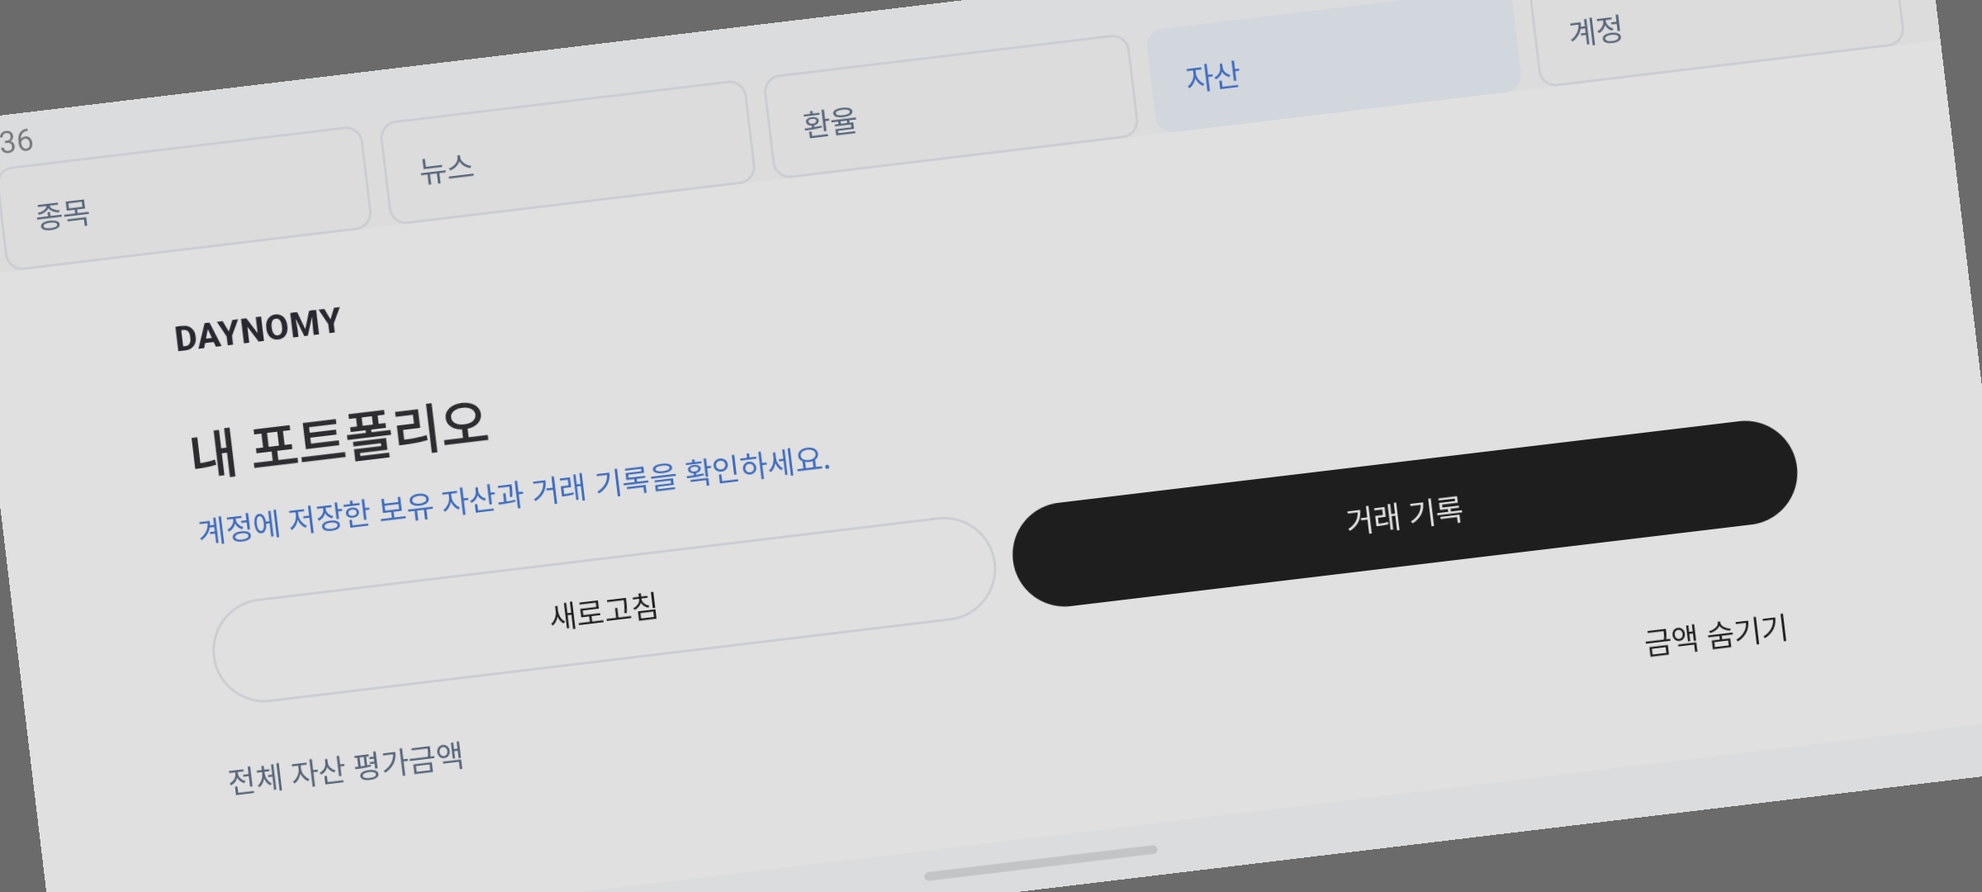
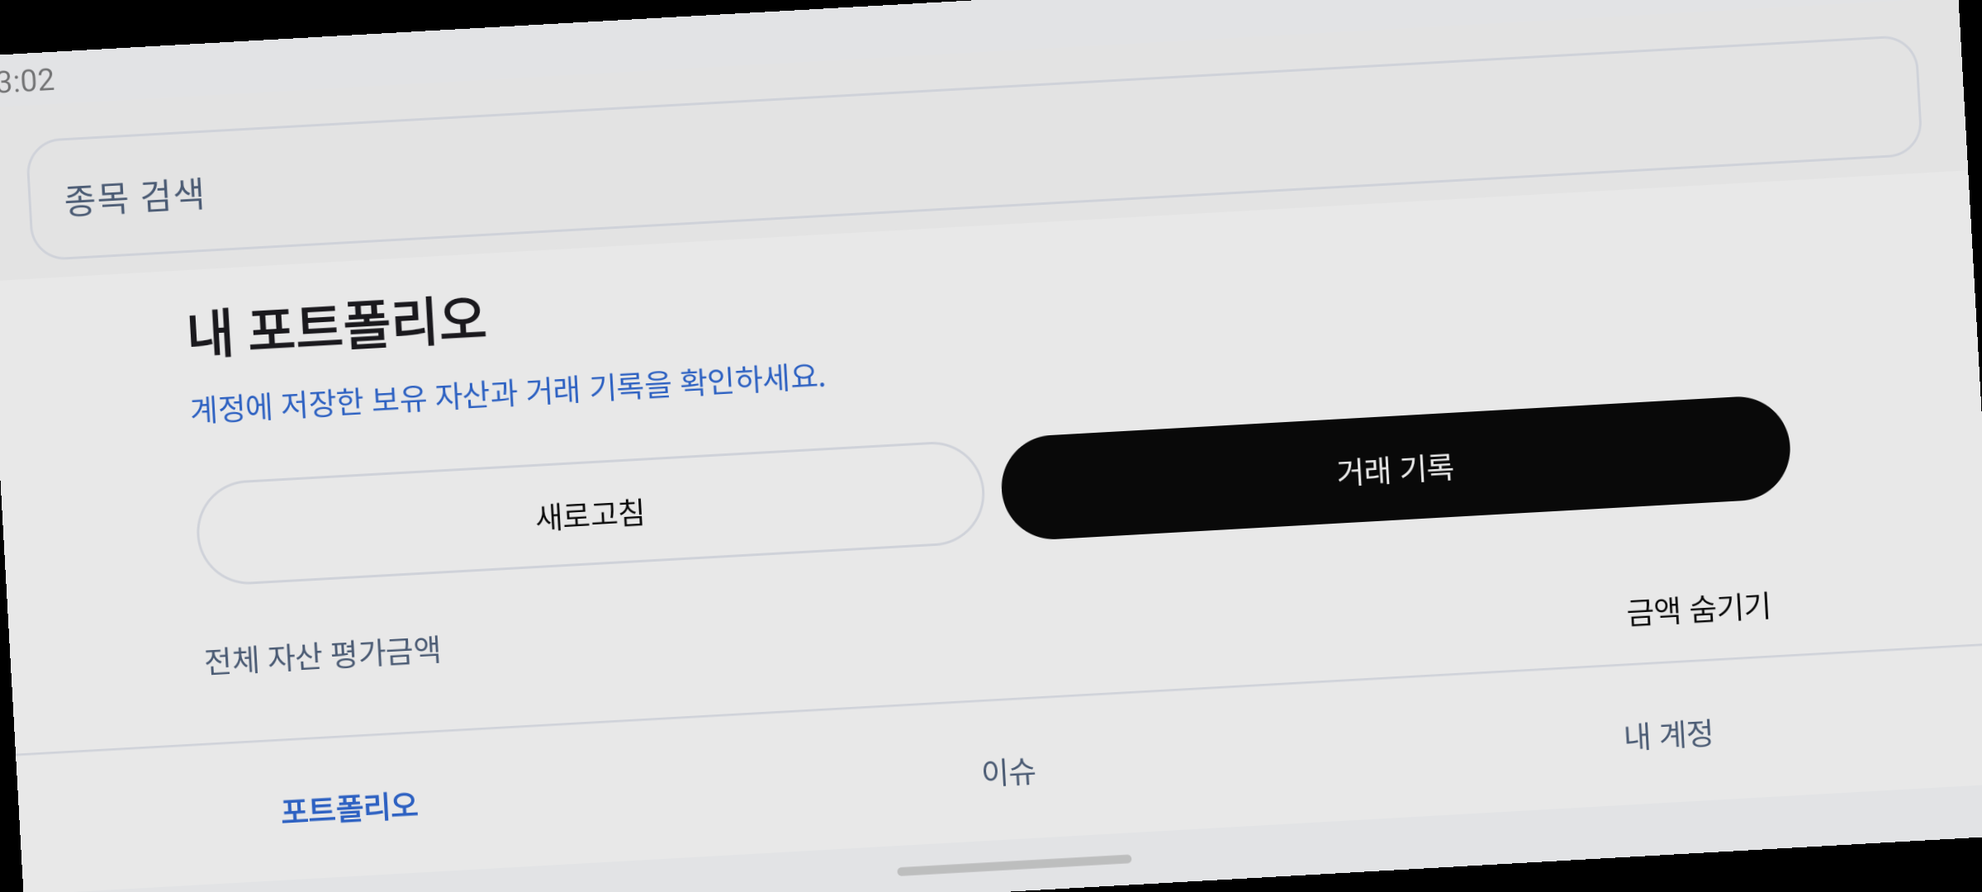
feat: 상단 검색과 하단 포트폴리오·이슈·내 계정 탐색 적용

diff --git a/clients/android/app/src/main/kotlin/org/daynomy/android/MainActivity.kt b/clients/android/app/src/main/kotlin/org/daynomy/android/MainActivity.kt
@@ -16,6 +16,11 @@ import androidx.compose.material3.*
 import androidx.compose.runtime.*
 import androidx.compose.runtime.saveable.rememberSaveable
 import androidx.compose.ui.Modifier
+import androidx.compose.ui.focus.onFocusChanged
+import androidx.compose.ui.platform.LocalFocusManager
+import androidx.compose.ui.semantics.Role
+import androidx.compose.ui.semantics.role
+import androidx.compose.ui.semantics.selected
 import androidx.compose.ui.graphics.Color
 import androidx.compose.ui.platform.LocalSoftwareKeyboardController
 import androidx.compose.ui.platform.testTag
@@ -63,7 +68,10 @@ class MainActivity : ComponentActivity() {
                 val core: CoreViewModel = viewModel(factory = viewModelFactory { initializer { CoreViewModel(baseUrl) } })
                 val feedback: FeedbackViewModel = viewModel(factory = viewModelFactory { initializer { FeedbackViewModel(baseUrl) } })
                 var feedbackOpen by rememberSaveable { mutableStateOf(false) }
-                var tab by rememberSaveable { mutableStateOf("market") }
+                var tab by rememberSaveable { mutableStateOf("portfolio") }
+                var returnTab by rememberSaveable { mutableStateOf("portfolio") }
+                val focus = LocalFocusManager.current
+                val keyboard = LocalSoftwareKeyboardController.current
                 LaunchedEffect(authCallback) {
                     authCallback?.let { callback -> authCallback = null; tab = "account"; core.completeLogin(callback) }
                 }
@@ -87,25 +95,61 @@ class MainActivity : ComponentActivity() {
                 val news by discovery.news.state.collectAsStateWithLifecycle()
                 val exchange by discovery.exchange.state.collectAsStateWithLifecycle()
                 BackHandler(tab == "news" && news.selectedId != null) { discovery.news.closeDetail() }
-                Column(Modifier.fillMaxSize().safeDrawingPadding()) {
-                    MaterialTheme(colorScheme = if (tab == "portfolio") PortfolioStyle.colors else MaterialTheme.colorScheme) {
-                    Row(Modifier.fillMaxWidth().padding(horizontal = 16.dp), horizontalArrangement = Arrangement.spacedBy(8.dp)) {
-                        listOf("market" to "종목", "news" to "뉴스", "exchange" to "환율", "portfolio" to "자산", "account" to "계정").forEach { (key, title) ->
-                            FilterChip(tab == key, { tab = key }, label = { Text(title) },
-                                modifier = Modifier.weight(1f).heightIn(min = 48.dp).testTag("tab-$key"))
-                        }
-                    }
-                    }
-                    Box(Modifier.weight(1f)) {
-                        when (tab) {
-                            "news" -> NewsScreen(news, discovery.news)
-                            "exchange" -> ExchangeScreen(exchange, discovery.exchange)
-                            "account" -> AccountScreen(core, onFeedback = { feedbackOpen = true }) {
-                                try { startActivity(Intent(Intent.ACTION_VIEW, Uri.parse(core.loginUrl()))) }
-                                catch (_: Exception) { core.showMessage("로그인 브라우저를 열지 못했습니다. 다시 시도해 주세요.") }
+                BackHandler(tab == "market" || tab == "exchange") {
+                    if (tab == "market" && state.selected != null) model.controller.clearSelection()
+                    else { focus.clearFocus(); keyboard?.hide(); tab = returnTab }
+                }
+                MaterialTheme(colorScheme = PortfolioStyle.colors) {
+                    Column(Modifier.fillMaxSize().safeDrawingPadding().imePadding()) {
+                        OutlinedTextField(
+                            value = state.query,
+                            onValueChange = {
+                                if (tab != "market") { returnTab = tab; tab = "market" }
+                                if (state.selected != null) model.controller.clearSelection()
+                                model.controller.updateQuery(it)
+                            },
+                            label = { Text("종목 검색") },
+                            placeholder = { Text("종목명 또는 종목코드") },
+                            singleLine = true,
+                            shape = androidx.compose.foundation.shape.RoundedCornerShape(16.dp),
+                            keyboardOptions = KeyboardOptions(imeAction = ImeAction.Search),
+                            keyboardActions = KeyboardActions(onSearch = { keyboard?.hide(); focus.clearFocus() }),
+                            modifier = Modifier.fillMaxWidth().padding(horizontal = 20.dp, vertical = 8.dp)
+                                .testTag("query").onFocusChanged {
+                                    if (it.isFocused && tab != "market") { returnTab = tab; tab = "market" }
+                                },
+                        )
+                        Box(Modifier.weight(1f)) {
+                            when (tab) {
+                                "news" -> NewsScreen(news, discovery.news)
+                                "exchange" -> Column {
+                                    TextButton({ tab = "account" }, Modifier.heightIn(min = 48.dp)) { Text("내 계정으로") }
+                                    ExchangeScreen(exchange, discovery.exchange)
+                                }
+                                "account" -> AccountScreen(core, onFeedback = { feedbackOpen = true },
+                                    onExchange = { returnTab = "account"; tab = "exchange" }) {
+                                    try { startActivity(Intent(Intent.ACTION_VIEW, Uri.parse(core.loginUrl()))) }
+                                    catch (_: Exception) { core.showMessage("로그인 브라우저를 열지 못했습니다. 다시 시도해 주세요.") }
+                                }
+                                "portfolio" -> PortfolioScreen(core) { tab = "account" }
+                                else -> MarketScreen(state, model.controller)
                             }
-                            "portfolio" -> PortfolioScreen(core) { tab = "account" }
-                            else -> MarketScreen(state, model.controller)
+                        }
+                        Surface(color = Color.White) {
+                            Column(Modifier.testTag("bottom-navigation")) {
+                                HorizontalDivider(color = PortfolioStyle.line)
+                                Row(Modifier.fillMaxWidth()) {
+                                    listOf("portfolio" to "포트폴리오", "news" to "이슈", "account" to "내 계정").forEach { (key, title) ->
+                                        val active = tab == key || (tab == "market" && returnTab == key) || (tab == "exchange" && key == "account")
+                                        TextButton({ focus.clearFocus(); keyboard?.hide(); returnTab = key; tab = key },
+                                            modifier = Modifier.weight(1f).heightIn(min = 64.dp).testTag("tab-$key")
+                                                .semantics { role = Role.Tab; selected = active }) {
+                                            Text(title, color = if (active) PortfolioStyle.blue else PortfolioStyle.muted,
+                                                fontWeight = if (active) FontWeight.Bold else FontWeight.Medium)
+                                        }
+                                    }
+                                }
+                            }
                         }
                     }
                 }
@@ -124,11 +168,6 @@ private fun MarketScreen(state: MarketUiState, controller: MarketController) {
             Text("종목과 가격", style = MaterialTheme.typography.headlineLarge, fontWeight = FontWeight.Bold,
                 modifier = Modifier.semantics { heading() })
             if (selected == null) {
-                OutlinedTextField(state.query, controller::updateQuery, label = { Text("종목 검색") },
-                    placeholder = { Text("종목명 또는 종목코드") }, singleLine = true,
-                    keyboardOptions = KeyboardOptions(imeAction = ImeAction.Search),
-                    keyboardActions = KeyboardActions(onSearch = { keyboard?.hide() }),
-                    modifier = Modifier.fillMaxWidth().testTag("query"))
                 Row(horizontalArrangement = Arrangement.spacedBy(8.dp)) {
                     Country.entries.forEach { country ->
                         FilterChip(state.country == country, { controller.updateCountry(country) },

diff --git a/clients/android/app/src/main/kotlin/org/daynomy/android/PortfolioScreen.kt b/clients/android/app/src/main/kotlin/org/daynomy/android/PortfolioScreen.kt
@@ -63,8 +63,6 @@ fun PortfolioScreen(model: CoreViewModel, onAccount: () -> Unit = {}) {
                 val gutter = if (maxWidth <= 600.dp) 36.dp else (16 + (maxWidth.value * .08f).coerceIn(32f, 128f)).dp
                 Column(Modifier.fillMaxSize().imePadding().verticalScroll(if (editorOpen) editorScroll else dashboardScroll)
                     .padding(horizontal = gutter, vertical = 28.dp), verticalArrangement = Arrangement.spacedBy(24.dp)) {
-                    Text("DAYNOMY", style = MaterialTheme.typography.titleMedium, fontWeight = FontWeight.ExtraBold,
-                        color = PortfolioStyle.ink)
                     if (editorOpen) {
                         Row(Modifier.fillMaxWidth(), horizontalArrangement = Arrangement.SpaceBetween) {
                             SectionTitle(if (model.editId == null) "거래 기록" else "거래 수정")
@@ -175,7 +173,7 @@ fun PortfolioScreen(model: CoreViewModel, onAccount: () -> Unit = {}) {
                         HorizontalDivider(color = PortfolioStyle.line)
                         SectionTitle("보유 자산 소식")
                         Text("관련 소식 연결은 준비 중입니다.", color = PortfolioStyle.muted)
-                        Text("발행된 뉴스는 상단 뉴스 메뉴에서 볼 수 있어요.", style = MaterialTheme.typography.bodyMedium, color = PortfolioStyle.muted)
+                        Text("발행된 뉴스는 하단 이슈 메뉴에서 볼 수 있어요.", style = MaterialTheme.typography.bodyMedium, color = PortfolioStyle.muted)
                     }
                 }
             }

diff --git a/clients/android/app/src/androidTest/kotlin/org/daynomy/android/PortfolioWebDesignScreenTest.kt b/clients/android/app/src/androidTest/kotlin/org/daynomy/android/PortfolioWebDesignScreenTest.kt
@@ -157,4 +157,26 @@ class PortfolioWebDesignScreenTest {
             scenario.onActivity { it.requestedOrientation=android.content.pm.ActivityInfo.SCREEN_ORIENTATION_PORTRAIT }
         }
     }
+    @Test fun threeBottomTabsAndPersistentTopSearchUseRealScreens() {
+        launch().use {
+            awaitTag("bottom-navigation")
+            compose.onNodeWithTag("tab-portfolio").assertTextContains("포트폴리오",substring=true)
+            compose.onNodeWithTag("tab-news").assertTextContains("이슈",substring=true)
+            compose.onNodeWithTag("tab-account").assertTextContains("내 계정",substring=true)
+            compose.onNodeWithTag("tab-market").assertDoesNotExist()
+            val bottom=compose.onNodeWithTag("bottom-navigation").fetchSemanticsNode().boundsInRoot
+            val search=compose.onNodeWithTag("query").fetchSemanticsNode().boundsInRoot
+            assertTrue(bottom.top>search.bottom)
+            compose.onNodeWithTag("query").performTextReplacement("삼성전자")
+            awaitTag("stock-1")
+            compose.onNodeWithTag("stock-1").performScrollTo().performClick()
+            compose.onNodeWithTag("clear-selection").assertExists()
+            compose.onNodeWithTag("query").performTextReplacement("삼성")
+            awaitTag("stock-1")
+            compose.onNodeWithTag("tab-news").performClick()
+            compose.onNodeWithTag("query").assertIsDisplayed()
+            compose.onNodeWithTag("tab-account").performClick(); awaitTag("account-profile")
+            capture("portfolio-bottom-navigation")
+        }
+    }
 }

diff --git a/clients/android/app/src/androidTest/kotlin/org/daynomy/android/DiscoveryScreenAcceptanceTest.kt b/clients/android/app/src/androidTest/kotlin/org/daynomy/android/DiscoveryScreenAcceptanceTest.kt
@@ -83,7 +83,7 @@ class DiscoveryScreenAcceptanceTest {
 
     @Test fun exchangeShowsActualFallbackDateAndExactRateAndSurvivesRecreation() {
         launch().use { scenario ->
-            awaitTag("tab-exchange"); compose.onNodeWithTag("tab-exchange").performClick()
+            awaitTag("tab-account"); compose.onNodeWithTag("tab-account").performClick(); awaitTag("tab-exchange"); compose.onNodeWithTag("tab-exchange").performClick()
             awaitTag("exchange-date"); compose.onNodeWithTag("exchange-date").performTextReplacement("2026-10-25")
             assertFalse(requests.any { it.requestUrl?.encodedPath == "/api/exchange-rates/usd-krw" })
             compose.onNodeWithTag("exchange-load").performClick()
@@ -99,7 +99,7 @@ class DiscoveryScreenAcceptanceTest {
     @Test fun exchangeErrorDoesNotBecomeAQuoteAndExplicitRetryRecovers() {
         exchangeFails = true
         launch().use {
-            awaitTag("tab-exchange"); compose.onNodeWithTag("tab-exchange").performClick()
+            awaitTag("tab-account"); compose.onNodeWithTag("tab-account").performClick(); awaitTag("tab-exchange"); compose.onNodeWithTag("tab-exchange").performClick()
             awaitTag("exchange-date"); compose.onNodeWithTag("exchange-date").performTextReplacement("2026-10-25")
             compose.onNodeWithTag("exchange-load").performClick(); awaitTag("exchange-error")
             compose.onNodeWithTag("exchange-error").assertIsDisplayed()

diff --git a/clients/android/app/src/main/kotlin/org/daynomy/android/CoreScreens.kt b/clients/android/app/src/main/kotlin/org/daynomy/android/CoreScreens.kt
@@ -18,7 +18,7 @@ import kotlinx.serialization.json.*
 import org.daynomy.market.Country
 
 @Composable
-fun AccountScreen(model: CoreViewModel, onFeedback: () -> Unit = {}, onLogin: () -> Unit) {
+fun AccountScreen(model: CoreViewModel, onFeedback: () -> Unit = {}, onExchange: () -> Unit = {}, onLogin: () -> Unit) {
     val focus = LocalFocusManager.current
     val profile = model.profile
     var nickname by remember(profile?.id, profile?.nickname) { mutableStateOf(profile?.nickname.orEmpty()) }
@@ -27,6 +27,7 @@ fun AccountScreen(model: CoreViewModel, onFeedback: () -> Unit = {}, onLogin: ()
     Column(Modifier.fillMaxSize().imePadding().verticalScroll(rememberScrollState()).padding(16.dp),
         verticalArrangement = Arrangement.spacedBy(12.dp)) {
         CoreHeading("내 계정")
+        TextButton(onExchange, Modifier.heightIn(min = 48.dp).testTag("tab-exchange")) { Text("환율 조회") }
         OutlinedButton(onFeedback, Modifier.fillMaxWidth().heightIn(min = 48.dp).testTag("account-feedback")) { Text("의견 보내기") }
         CoreMessage(model.message)
         if (model.busy) LinearProgressIndicator(Modifier.fillMaxWidth())

diff --git a/clients/android/app/src/androidTest/kotlin/org/daynomy/android/MarketScreenAcceptanceTest.kt b/clients/android/app/src/androidTest/kotlin/org/daynomy/android/MarketScreenAcceptanceTest.kt
@@ -126,6 +126,8 @@ class MarketScreenAcceptanceTest {
     @Test fun usSearchSendsCountryAndLocalCategoryFilterDoesNotRefetch() {
         launch().use {
             awaitTag("query")
+            compose.onNodeWithTag("query").performClick()
+            awaitTag("country-US")
             compose.onNodeWithTag("country-US").performClick()
             compose.onNodeWithTag("query").performTextReplacement("AAPL & ETF")
             awaitTag("stock-1"); awaitTag("stock-2")

diff --git a/spec/android-native/portfolio-design.md b/spec/android-native/portfolio-design.md
@@ -4,13 +4,14 @@ Issue #15. 2026-11-04 사용자 결정: 기존 웹 디자인을 공통 기준으
 공통 근거·토큰·반응형 전환은 [원본 웹 UI 기준](../../docs/design/2026-11-04-web-reference/README.md)을 따른다.
 
 - 요약 → 자산 분석 → 보유 자산/거래 내역 → 관련 소식의 순서를 유지한다. 거래 입력은 명시적으로 열고 닫는 별도 화면이며 시스템 뒤로 가기를 지원한다.
-- 웹의 흰 표면·검정 주요 행동·청색 강조·구분선·pill 버튼을 Compose 토큰으로 사용한다. 기존 앱 탐색은 유지하고, 포트폴리오가 선택됐을 때 탐색 칩도 같은 색을 적용한다.
+- 웹의 흰 표면·검정 주요 행동·청색 강조·구분선·pill 버튼을 Compose 토큰으로 사용한다. 사용자 후속 결정에 따라 상단 고정 종목 검색창·본문·하단 3탭(포트폴리오/이슈/내 계정) 구조로 통일한다. 종목은 상단 검색, 환율은 내 계정의 보조 경로로 제공한다.
 - 최소 48dp 터치 영역·플랫폼 한국어 글꼴·스크롤·IME·접근성 이름/상태를 적용한다. 웹 DOM·정확한 픽셀 크기·리그 메뉴를 그대로 복사하지 않는다.
 - Android에 없는 게스트 자산 임시 저장·AI·보유 종목 뉴스는 활성 기능으로 표시하지 않는다. 로그인 필요 상태에서는 실제 계정 화면으로 이동한다.
 - 조회 전/실패/로그인 필요의 요약 금액은 `—`다. 확인된 빈 보유만 0원을 표시한다. 부분 평가의 null 금액과 기준일 혼합을 구분하며 수치/비중은 기존 서버 응답에서 표시한다.
 - 새로 조회할 때 이전 평가·수익률을 무효화한다. 조회 실패를 빈 성공으로 바꾸지 않는다. 인증 실패 때 이전 회원의 보유/이력/요약을 지운다.
 - 거래 단가·수량·비용·환율의 원문 입력과 기존 HTTP/CSRF 경계를 유지한다. 저장 결과 불명은 자동 재전송하지 않으며, 내역 재조회로 확인한다.
 - 보유 조정·제거·거래 수정·삭제·기간 수익률·평가는 기존 기능을 유지한다. 수익률 그래프 시각화는 준비 중임을 표시하고 실제 저장 수익률의 텍스트 조회를 제공한다.
+- 상단 검색은 기존 종목 검색이며 미구현 통합 검색으로 표현하지 않는다. 검색 결과에서 종목을 선택한 뒤 새 검색어를 입력하면 선택/가격 초안을 초기화한다.
 - 기존 세션/원장 API는 변경하지 않는다. 원본 서버·DB 또는 다른 클라이언트는 이 UI 적용을 위해 실행하지 않는다.
 
 회전/Activity 재생성·가로·글자 확대와 입력 열기/취소·조회 실패/로그인 필요/부분 평가·거래 결과 불명을 네이티브 인수 검사로 확인한다.

diff --git a/docs/time-token-experiment.md b/docs/time-token-experiment.md
@@ -250,6 +250,9 @@ prompt 11,780→1,465 bytes와 달리 전체 토큰은 495개(0.65%)만 적고 B
 
 실행 선택 답변 이후 부분 사용량(2026-11-04T05:52:12.270Z → 2026-11-04T05:56:33.627Z UTC): 응답 15회, 캐시 입력 4,766,464·비캐시 입력 4,316·출력 7,700토큰. 이 기록·커밋·최종 응답 이후는 제외하며 기존 PR 게시 경계에 더하지 않는다. 별도 비교 실험이나 절감률 계산은 하지 않았다.
 
+- **후속 탐색 수정:** 사용자 결정으로 상단 고정 종목 검색→본문→하단 포트폴리오/이슈/내 계정 3탭으로 변경했다. 종목 상세에서 재검색하면 선택을 해제하며, 환율은 내 계정의 보조 경로로 제공한다. 표시용 Android 기기에도 실제 APK를 업데이트했다.
+- **후속 검증/측정:** 새 배치 인수 RED 확인 후 JVM25개·APK/lint 통과. 네이티브20개 중19개 통과, 기존 미국 검색 진입을 새 검색창 터치로 보정한1개 재검사 통과. 새 탐색의 글자200% 검사1개 통과·설정 복원. 실제 서버/DB·TalkBack·다른 플랫폼은 미검증. 이번 요청의 부분 집계(2026-11-04T05:59:45.791Z→2026-11-04T06:08:10.423Z UTC)는 응답20회·캐시6,513,920·비캐시13,795·출력15,202토큰이며 이후 기록/게시/최종 응답은 제외한다. 기존 PR 최초 게시 경계와 합치거나 절감률로 해석하지 않는다. PR 본문 편집용 브라우저는 접근 오류로 사용하지 못해 최신 결과는 PR 파일/코드로 연결했다.
+
 ## 후속 관찰 — 왜 이번에도 시간·토큰이 컸나?
 
 2026-11-04. 기존 원본 세션의 response_id별 token_usage_record와 명령 실행 시각으로 확인했다. 기능·검사 재실행이나 새 계측 도구는 만들지 않았다. 상세 검증·Cloud 링크는 [기존 로그 분석 §8](../runs/022-log-bottlenecks.md#8-android-뉴스-검색--2026-11-04-후속-관찰)에 있다. 이번 분석 답변의 비용은 아래 완료 작업 집계에서 제외한다.

diff --git a/docs/design/2026-11-04-web-reference/README.md b/docs/design/2026-11-04-web-reference/README.md
@@ -84,3 +84,7 @@
 화면 이미지는 API33 에뮬레이터의 명시적 합성 데이터 인수 검사에서 캡처했다. 원본과 나란히 확인해 흰 표면·검정 주요 동작·청색 강조·pill 버튼·요약 순서를 유지했다. 거래 입력의 초기 스크롤과 선택 칩 색상 차이는 비교 후 보정했다.
 
 차이: 기존 Android의 종목/뉴스/환율/자산/계정 탐색을 유지하고 포트폴리오에서만 같은 토큰을 적용한다. 회원 포트폴리오만 실제 연결하며 웹의 게스트 임시 저장은 제공하지 않는다. 수익률 그래프 대신 실제 응답의 텍스트 조회, 비중 그림 대신 실제 평가 응답의 종목별 수치를 표시한다. 보유 종목 뉴스는 준비 중이며 AI·리그는 활성 메뉴로 추가하지 않는다. 플랫폼 글꼴·48dp 터치 영역·시스템 뒤로 가기·IME·글자 확대를 사용하므로 웹과 픽셀 단위로 같다고 표현하지 않는다.
+
+## 사용자 확정 탐색 수정 — 하단 3탭과 상단 검색
+
+공통 셸은 **상단에 항상 보이는 검색창 → 독립 본문 → 하단 네비게이션**으로 정한다. 하단 탭은 **포트폴리오·이슈·내 계정** 세 개이며 리그는 넣지 않는다. 이는 원본 관찰 이미지와 구분되는 사용자의 명시적 수정 결정이다. Android에 먼저 적용하고 다른 클라이언트는 후속 적용한다. 현재 검색은 실제 구현된 종목명/코드 검색이며 통합 검색으로 오인시키지 않는다. 종목과 환율을 별도 하단 탭으로 남기지 않고 각각 상단 검색과 내 계정의 보조 경로로 연결한다.
